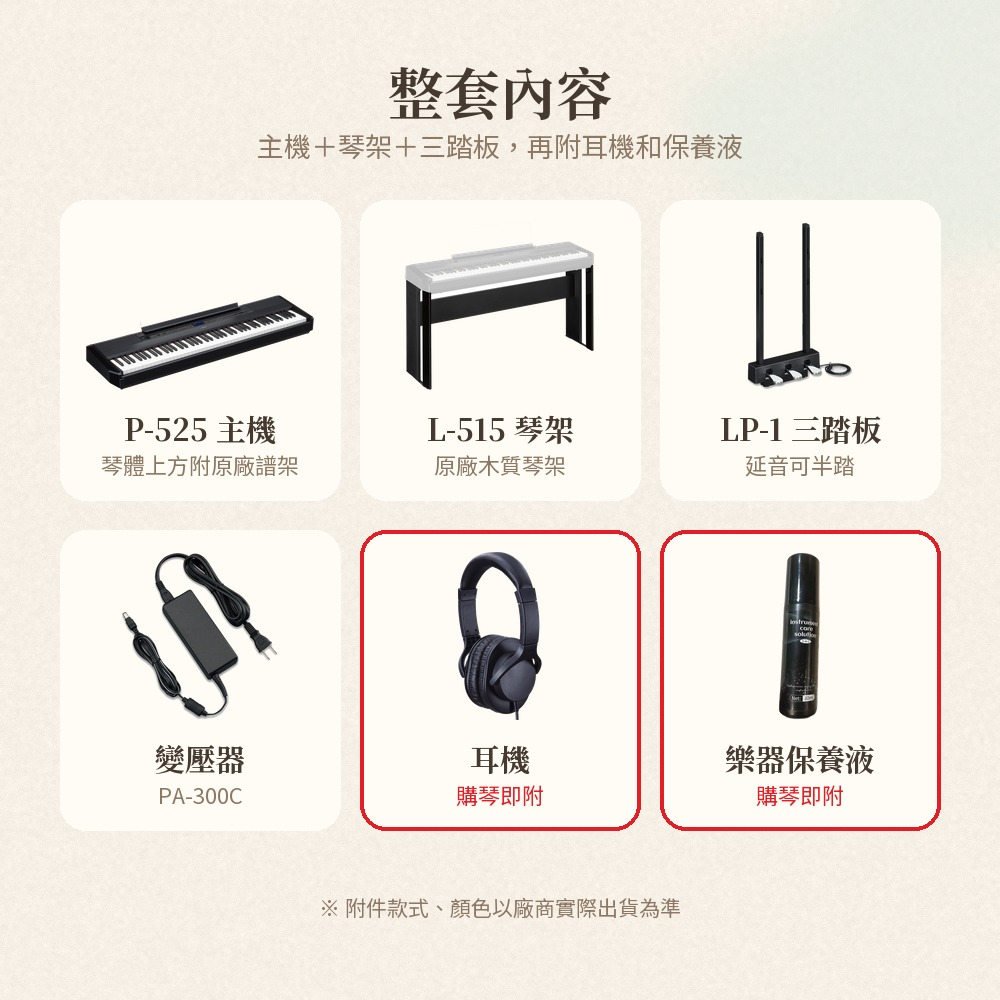
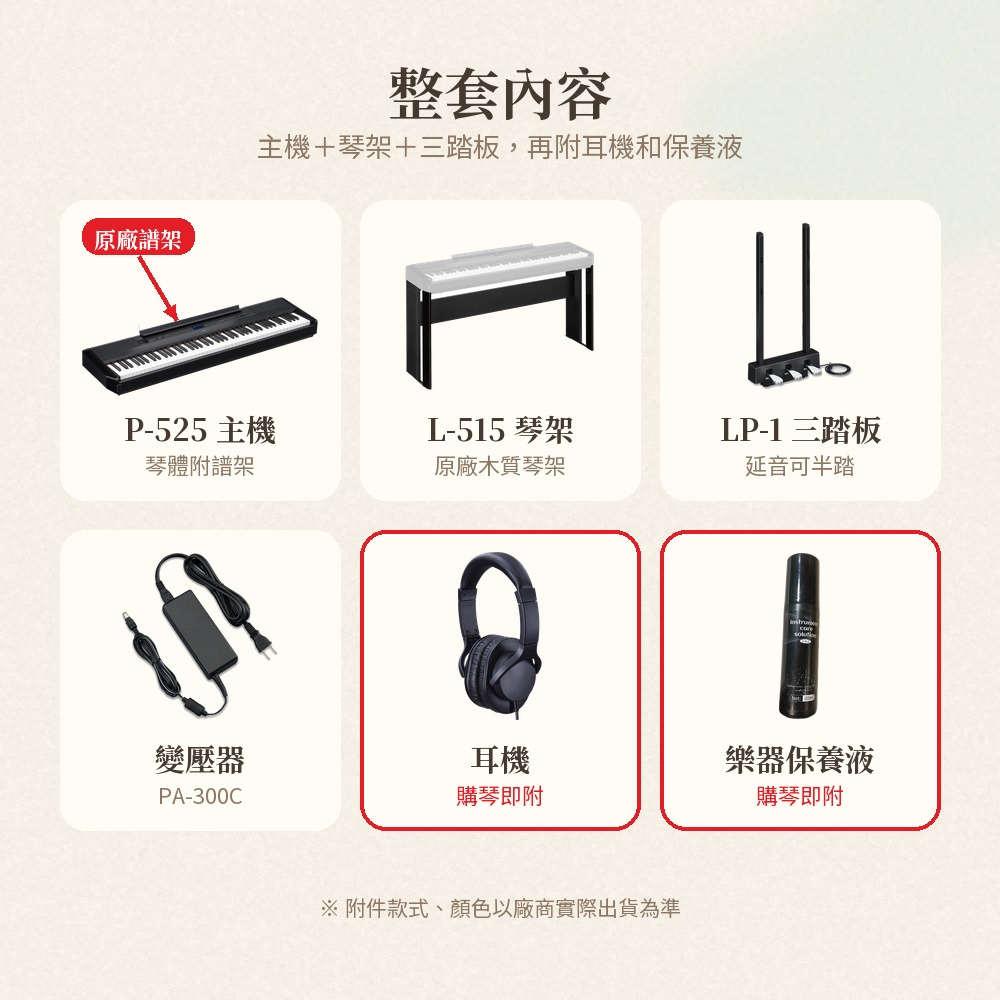
P-525 contents: arrow to music rest

Changed region(s): [[0.062, 0.217, 0.341, 0.403], [0.093, 0.434, 0.186, 0.496], [0.217, 0.434, 0.31, 0.496]]

diff --git a/piano/P-525/index.html b/piano/P-525/index.html
@@ -26,6 +26,6 @@ const S=[
  ["web","官網・輕巧風","米白紙感＋紙飛機，跟電商明顯不同"]];
 const F={"sky": ["P525_1_main_BK.jpg", "P525_1_main_WH.jpg", "P525_2_cover.jpg", "P525_3_stand.jpg", "P525_4_features.jpg", "P525_d01_brand.jpg", "P525_d02_keys.jpg", "P525_d03_sound.jpg", "P525_d04_speakers.jpg", "P525_d05_headphones.jpg", "P525_d06_app.jpg", "P525_d07_record.jpg", "P525_d08_practice.jpg", "P525_d09_stand_pedals.jpg", "P525_d10_contents.jpg", "P525_d11_size.jpg", "P525_d12_spec.jpg", "P525_d90_notice_buy.jpg", "P525_d91_notice_return.jpg", "P525_d92_notice_remote.jpg"], "apple": ["P525_1_main_BK.jpg", "P525_1_main_WH.jpg", "P525_2_cover.jpg", "P525_3_stand.jpg", "P525_4_features.jpg", "P525_d01_brand.jpg", "P525_d02_keys.jpg", "P525_d03_sound.jpg", "P525_d04_speakers.jpg", "P525_d05_headphones.jpg", "P525_d06_app.jpg", "P525_d07_record.jpg", "P525_d08_practice.jpg", "P525_d09_stand_pedals.jpg", "P525_d10_contents.jpg", "P525_d11_size.jpg", "P525_d12_spec.jpg", "P525_d90_notice_buy.jpg", "P525_d91_notice_return.jpg", "P525_d92_notice_remote.jpg"], "web": ["P525_web_1_cover.jpg", "P525_d01_brand.jpg", "P525_d02_keys.jpg", "P525_d03_sound.jpg", "P525_d04_speakers.jpg", "P525_d05_headphones.jpg", "P525_d06_app.jpg", "P525_d07_record.jpg", "P525_d08_practice.jpg", "P525_d09_stand_pedals.jpg", "P525_d10_contents.jpg", "P525_d11_size.jpg", "P525_d12_spec.jpg", "P525_d90_notice_buy.jpg", "P525_d91_notice_return.jpg", "P525_d92_notice_remote.jpg"]};
 const N={"P525_1_main_BK.jpg": "首圖・黑", "P525_1_main_WH.jpg": "首圖・白", "P525_2_cover.jpg": "封面", "P525_3_stand.jpg": "分離式琴架", "P525_4_features.jpg": "四大強項", "P525_web_1_cover.jpg": "官網底圖", "P525_d01_brand.jpg": "品牌介紹", "P525_d02_keys.jpg": "木質琴鍵", "P525_d03_sound.jpg": "雙名琴音色", "P525_d04_speakers.jpg": "雙向喇叭", "P525_d05_headphones.jpg": "耳機", "P525_d06_app.jpg": "藍牙App", "P525_d07_record.jpg": "錄音", "P525_d08_practice.jpg": "練習功能", "P525_d09_stand_pedals.jpg": "琴架三踏板", "P525_d10_contents.jpg": "整套內容", "P525_d11_size.jpg": "尺寸", "P525_d12_spec.jpg": "規格", "P525_d90_notice_buy.jpg": "購買須知", "P525_d91_notice_return.jpg": "退貨須知", "P525_d92_notice_remote.jpg": "偏遠地區"};
-const v="?v=5";
+const v="?v=6";
 document.getElementById("app").innerHTML=S.map(([k,t,d])=>`<section><h2>${t}</h2><p>${d}</p><div class="grid">${F[k].map(f=>`<div class="card"><a href="${k}/${f}${v}" target="_blank"><img loading="lazy" src="${k}/${f}${v}" alt="${N[f]}"></a><div class="cap"><span>${N[f]}</span><a href="${k}/${f}" download>下載</a></div></div>`).join("")}</div></section>`).join("");
 </script></body></html>
